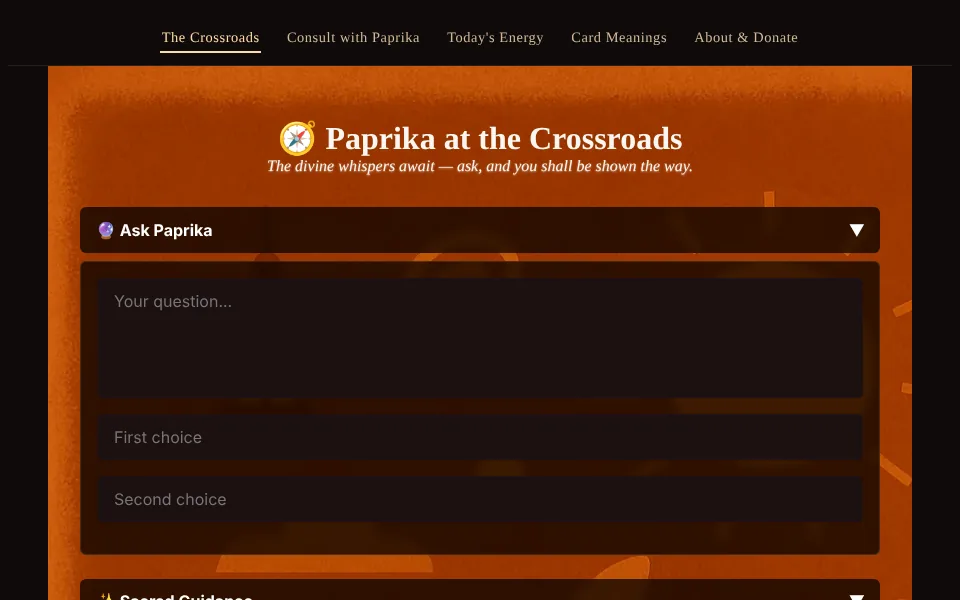
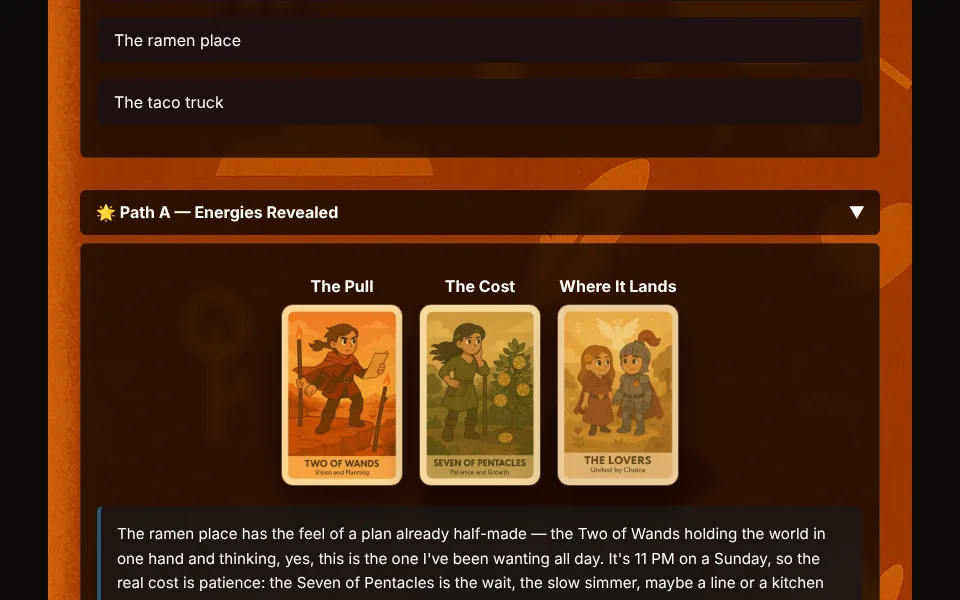
About page: show a Crossroads reading instead of the empty form
The Crossroads card's screenshot was the home page before a question is
asked: a blank question box and two blank choices. It now shows a real
reading ("where should we go for dinner tonight?", the ramen place or
the taco truck): the choices, the three illustrated cards drawn for the
first path and the start of what Paprika says about them.

Claude-Session: https://claude.ai/code/session_011sJqG2sEsc9AendgTzVfE6

diff --git a/web/src/app/about/page.tsx b/web/src/app/about/page.tsx
@@ -108,7 +108,7 @@ const SITES: Site[] = [
     about: 'It started with going in circles over where to eat. Type your question and your two choices, draw a '
       + 'crossroads spread, and Paprika, an AI tarot reader, weighs each path. There\'s also a three-card reading, a '
       + 'card for the day, and plain-spoken meanings for all 78 cards.',
-    shot: { src: '/about/crossroads.webp', alt: 'The Crossroads Oracle home page: a question box and the two choices to weigh' },
+    shot: { src: '/about/crossroads.webp', alt: 'A reading for dinner, the ramen place or the taco truck: three cards drawn for the ramen place and the start of what they say' },
   },
 ];
 
